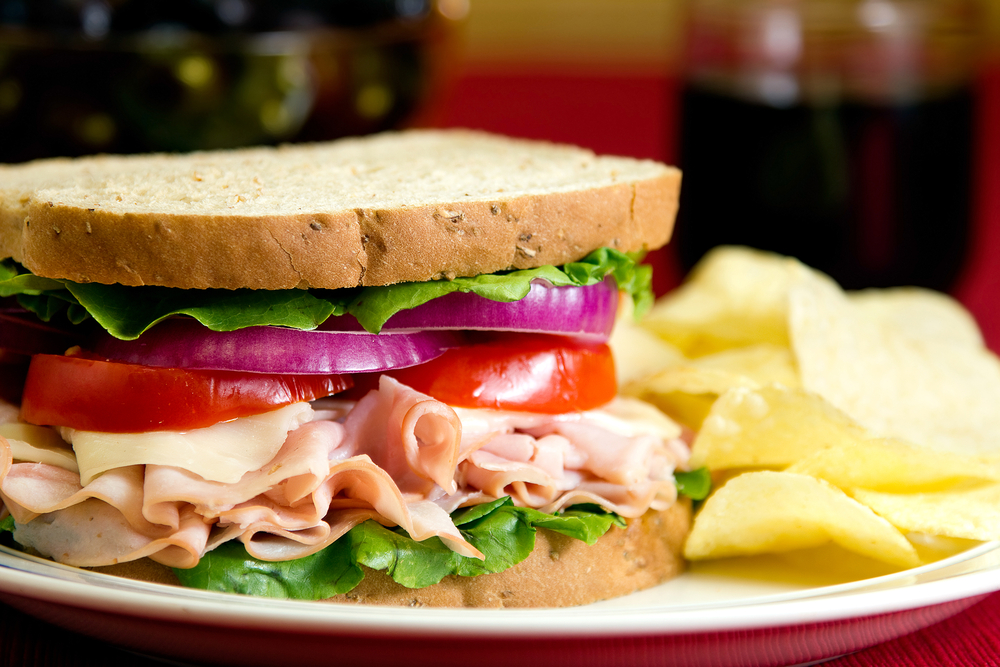
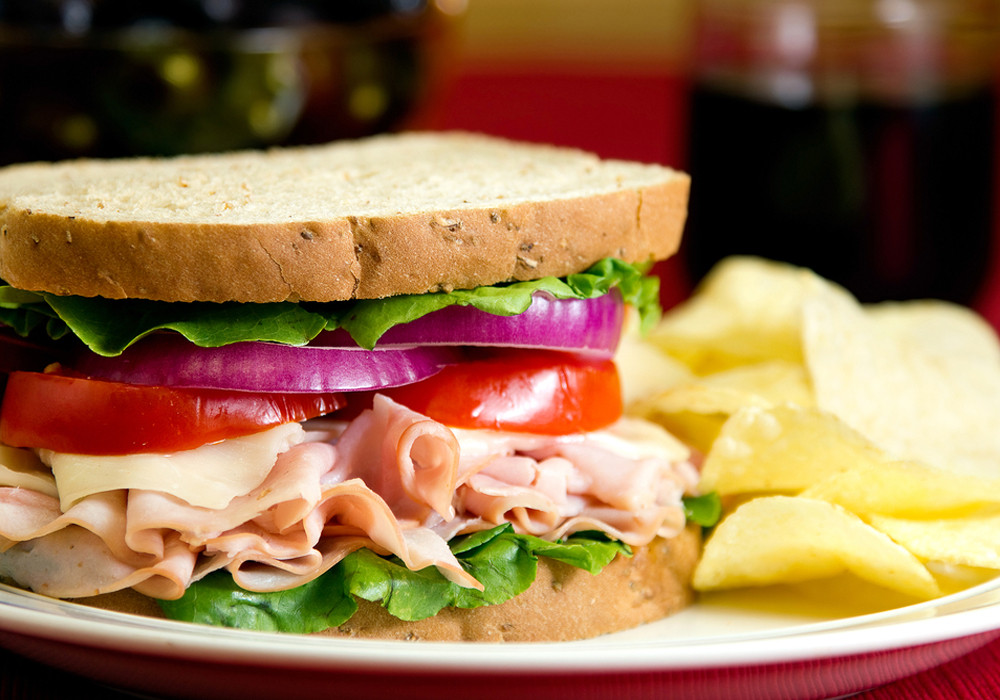
add default CSS styling file to project and resize images

diff --git a/css/owl.theme.default.min.css b/css/owl.theme.default.min.css
@@ -1,0 +1,6 @@
+/**
+ * Owl Carousel v2.2.1
+ * Copyright 2013-2017 David Deutsch
+ * Licensed under  ()
+ */
+.owl-theme .owl-dots,.owl-theme .owl-nav{text-align:center;-webkit-tap-highlight-color:transparent}.owl-theme .owl-nav{margin-top:10px}.owl-theme .owl-nav [class*=owl-]{color:#FFF;font-size:14px;margin:5px;padding:4px 7px;background:#D6D6D6;display:inline-block;cursor:pointer;border-radius:3px}.owl-theme .owl-nav [class*=owl-]:hover{background:#869791;color:#FFF;text-decoration:none}.owl-theme .owl-nav .disabled{opacity:.5;cursor:default}.owl-theme .owl-nav.disabled+.owl-dots{margin-top:10px}.owl-theme .owl-dots .owl-dot{display:inline-block;zoom:1}.owl-theme .owl-dots .owl-dot span{width:10px;height:10px;margin:5px 7px;background:#D6D6D6;display:block;-webkit-backface-visibility:visible;transition:opacity .2s ease;border-radius:30px}.owl-theme .owl-dots .owl-dot.active span,.owl-theme .owl-dots .owl-dot:hover span{background:#869791}

diff --git a/about.html b/about.html
@@ -6,6 +6,7 @@
 	<meta name="Shirley's Sandwiches" content="">
 	<meta name="viewport" content="width=device-width, initial-scale=1">
 	<link rel="stylesheet" href="css/vendor/normalize.min.css">
+	<link rel="stylesheet" href="css/owl.carousel.min.css" />
 	<link rel="stylesheet" href="css/main.css">
 	<link href="https://fonts.googleapis.com/css?family=Port+Lligat+Slab|Roboto" rel="stylesheet">
 </head>
@@ -60,6 +61,7 @@
 
 	<script src="js/jquery-2.1.4.min.js"></script>
 	<script src="js/jquery.backstretch.js"></script>
+	<script src="js/owl.carousel.min.js"></script>
 	<script src="js/main.js"></script>
 </body>
 </html>

diff --git a/menu.html b/menu.html
@@ -6,6 +6,7 @@
 	<meta name="Shirley's Sandwiches" content="">
 	<meta name="viewport" content="width=device-width, initial-scale=1">
 	<link rel="stylesheet" href="css/vendor/normalize.min.css">
+	<link rel="stylesheet" href="css/owl.carousel.min.css" />
 	<link rel="stylesheet" href="css/main.css">
 	<link href="https://fonts.googleapis.com/css?family=Port+Lligat+Slab|Roboto" rel="stylesheet">
 </head>
@@ -88,6 +89,7 @@
 
 	<script src="js/jquery-2.1.4.min.js"></script>
 	<script src="js/jquery.backstretch.js"></script>
+	<script src="js/owl.carousel.min.js"></script>
 	<script src="js/main.js"></script>
 </body>
 </html>

diff --git a/photos.html b/photos.html
@@ -6,6 +6,7 @@
 	<meta name="Shirley's Sandwiches" content="">
 	<meta name="viewport" content="width=device-width, initial-scale=1">
 	<link rel="stylesheet" href="css/vendor/normalize.min.css">
+	<link rel="stylesheet" href="css/owl.carousel.min.css" />
 	<link rel="stylesheet" href="css/main.css">
 	<link href="https://fonts.googleapis.com/css?family=Port+Lligat+Slab|Roboto" rel="stylesheet">
 </head>
@@ -77,6 +78,7 @@
 
 	<script src="js/jquery-2.1.4.min.js"></script>
 	<script src="js/jquery.backstretch.js"></script>
+	<script src="js/owl.carousel.min.js"></script>
 	<script src="js/main.js"></script>
 </body>
 </html>

diff --git a/index.html b/index.html
@@ -7,6 +7,7 @@
 	<meta name="viewport" content="width=device-width, initial-scale=1">
 	<link rel="stylesheet" href="css/vendor/normalize.min.css">
 	<link rel="stylesheet" href="css/owl.carousel.min.css" />
+	<link rel="stylesheet" href="css/owl.theme.default.min.css" />
 	<link rel="stylesheet" href="css/main.css">
 	<link href="https://fonts.googleapis.com/css?family=Port+Lligat+Slab|Roboto" rel="stylesheet">
 </head>

diff --git a/js/main.js b/js/main.js
@@ -27,10 +27,10 @@ $('.owl-carousel').owlCarousel({
 			items: 1
 		},
 		600: {
-			items: 3
+			items: 1
 		},
 		1000: {
-			items: 5
+			items: 1
 		}
 	}
 });
